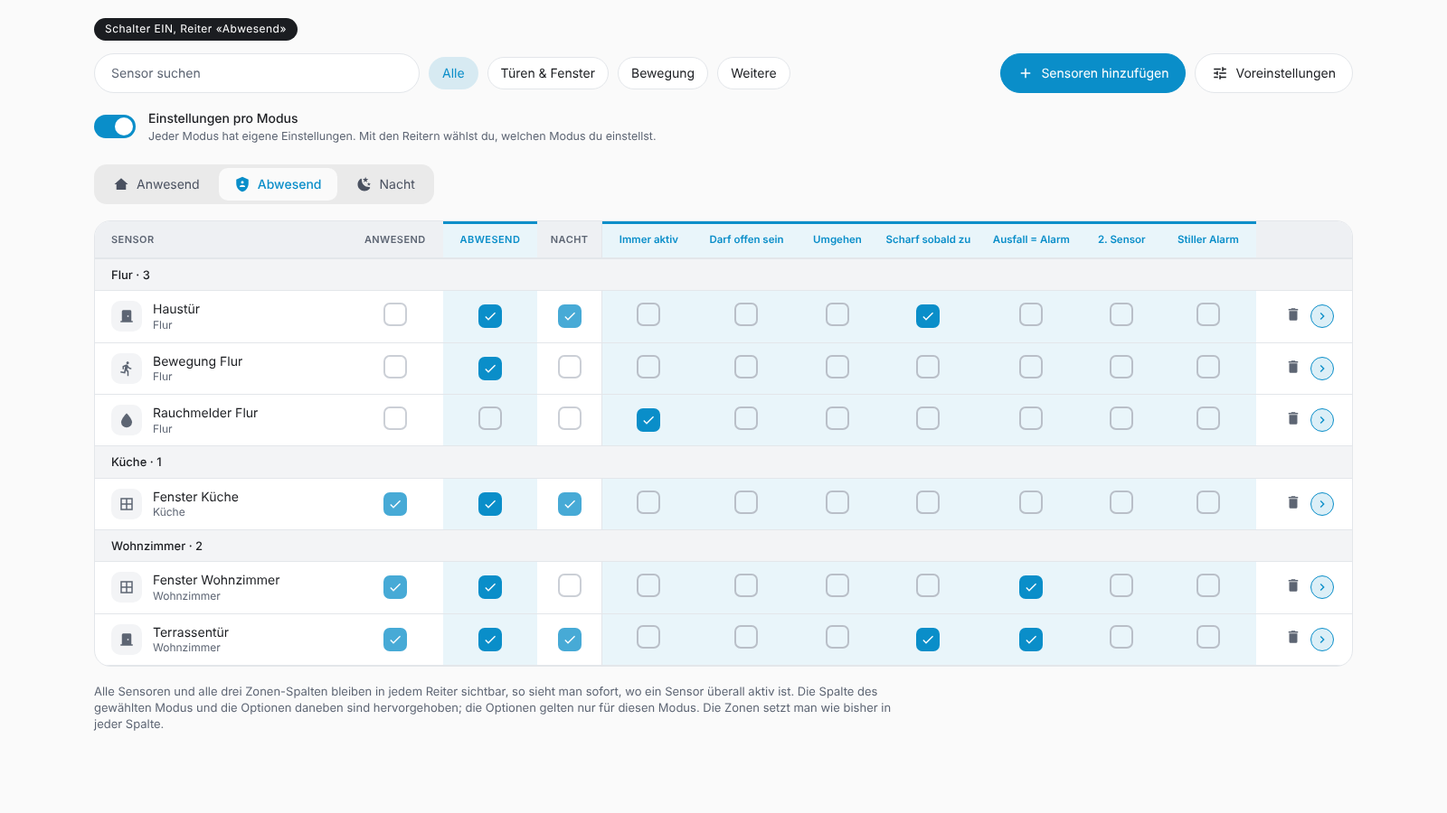
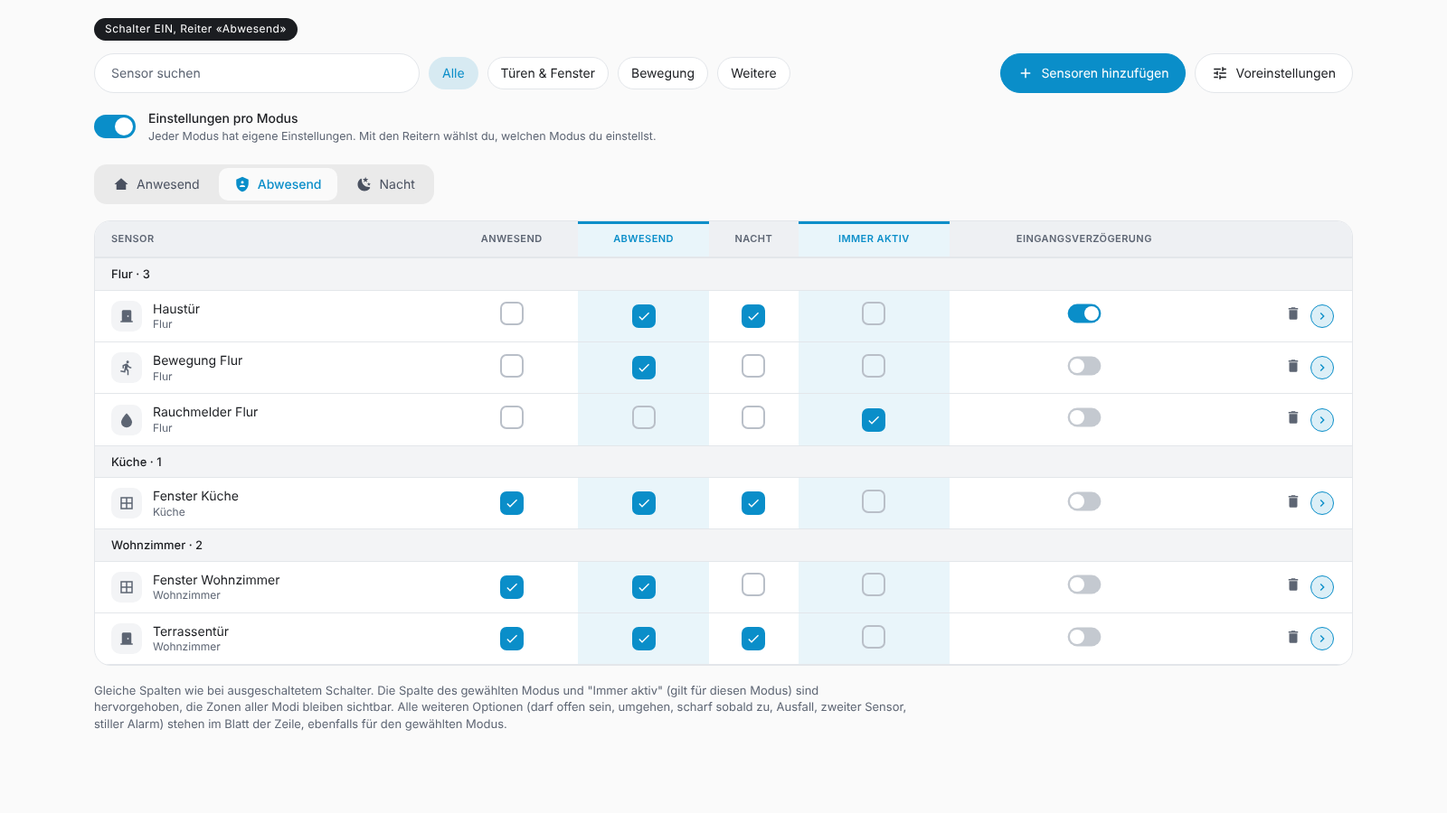
0.33.0: Einstellungen pro Modus vereinfacht (Reiter nur mit Schalter, dieselbe Tabelle)
- Reiter der Modi nur bei eingeschaltetem Schalter, kein "Alle Modi", erster Modus gewählt
- Gleiche Spalten wie vorher, Spalte des gewählten Modus und "Immer aktiv" hervorgehoben, übrige Optionen im Blatt
- Mehr Abstand um den Schalter, Herkunftstexte angepasst
- Mockup, Tests, CHANGELOG EN/DE, README, HANDOVER

Claude-Session: https://claude.ai/code/session_01ALFh3oBmarxTwCL7WBAtR3

diff --git a/custom_components/alarmageddon/panel/sensors.js b/custom_components/alarmageddon/panel/sensors.js
@@ -19,7 +19,7 @@ export class SensorsUi {
     this.paint = null;
     this.skipClick = false;
     this.presetDraft = null;
-    this.mtab = "all"; // Ansicht: "all" (Werte für alle Modi) oder ein Modus mit eigenen Werten (nur mit eingeschaltetem Schalter)
+    this.mtab = "home"; // Ansicht: gewählter Modus (nur mit eingeschaltetem Schalter)
   }
 
   _t(key, vars) {
@@ -107,9 +107,9 @@ export class SensorsUi {
     return n + (s && d && d.entry === s.entry_id && d.perMode !== Boolean(s.per_mode_sensors) ? 1 : 0);
   }
 
-  // Modus der Ansicht: nur mit eingeschaltetem Schalter und gewähltem Reiter (sonst gelten die Werte für alle Modi)
+  // Modus der Ansicht: nur mit eingeschaltetem Schalter (der gewählte Reiter), sonst gelten die Werte für alle Modi
   activeMode() {
-    return this.draft?.perMode && this.mtab !== "all" ? this.mtab : null;
+    return this.draft?.perMode ? this.mtab : null;
   }
 
   preset(id) {
@@ -240,69 +240,23 @@ export class SensorsUi {
       const none = !this.draft.sensors.size;
       this.host._setHtml(body, `<div class="ag-card ag-empty"><span class="ag-t2">${esc(this._t(none ? "noSensorsChosen" : "noSensors"))}</span>${none ? `<button class="ag-btn primary" data-sen="add">${ic("plus", 18)}${esc(this._t("addSensors"))}</button>` : ""}</div>`);
     }
-    else if (mode) this.host._setHtml(body, narrow ? this._modeCards(rows, mode) : this._modeTable(rows, changed, mode));
     else this.host._setHtml(body, narrow ? this._cards(rows) : this._table(rows, changed));
     this.renderSide();
     this.renderFoot();
   }
 
-  // Schalter "Einstellungen pro Modus" und Reiter (Alle Modi, Anwesend, Abwesend, Nacht); die Modus-Reiter sind ohne Schalter gesperrt
+  // Schalter "Einstellungen pro Modus"; nur wenn er an ist, erscheinen die Reiter der Modi (der erste ist gewählt)
   renderModeBar() {
     const h = this.host;
     const bar = h._view?.querySelector(".ag-pmbar");
     const d = this.draft;
     if (!bar || !d) return;
-    if (!d.perMode) this.mtab = "all";
     const modes = this.modes().filter((m) => ALL_MODES.includes(m));
-    if (this.mtab !== "all" && !modes.includes(this.mtab)) this.mtab = "all";
-    let tabs = h._segHtml("sen-mode", [["mt:all", this._t("senModeAll")], ...modes.map((m) => [`mt:${m}`, this._t(MODE_KEY[m]), MODE_ICON[m]])], `mt:${this.mtab}`, "data-sen", "small");
-    if (!d.perMode) tabs = tabs.replace(/<button role="tab" data-sen="mt:(home|away|night)"/g, '<button role="tab" disabled data-sen="mt:$1"');
+    if (d.perMode && !modes.includes(this.mtab)) this.mtab = modes[0] || "home";
+    const tabs = d.perMode ? h._segHtml("sen-mode", modes.map((m) => [`mt:${m}`, this._t(MODE_KEY[m]), MODE_ICON[m]]), `mt:${this.mtab}`, "data-sen", "small") : "";
     h._setHtml(bar, `<div class="ag-pmsw"><button class="ag-toggle ${d.perMode ? "on" : ""}" data-sen="permode" role="switch" aria-checked="${d.perMode}" aria-label="${esc(this._t("senPerMode"))}"></button>
       <div class="ag-settx"><b>${esc(this._t("senPerMode"))}</b><small>${esc(this._t(d.perMode ? "senPerModeOn" : "senPerModeHint"))}</small></div></div>${tabs}`);
     h._placePills();
-  }
-
-  // Tabelle eines Modus: alle Optionen als Kästchen mit dem Wert dieses Modus (eigener Wert als Punkt), Klick setzt einen eigenen Wert
-  _modeTable(rows, changed, mode) {
-    const head = `<tr><th>${esc(this._t("colSensor"))}</th>${OPTIONS.map((o) => `<th class="z ag-optth">${esc(this._t(o.name))}</th>`).join("")}<th></th></tr>`;
-    let area = null;
-    const body = [];
-    for (const r of rows) {
-      if (r.area !== area) {
-        area = r.area;
-        body.push(`<tr class="grp"><td colspan="${OPTIONS.length + 2}">${esc(area)} · ${rows.filter((x) => x.area === area).length}</td></tr>`);
-      }
-      const bits = this._bits(r);
-      body.push(`<tr class="ag-clickrow ${changed.has(r.id) ? "changed" : ""} ${this.detail === r.id ? "sel" : ""}" data-row="${esc(r.id)}"><td><div class="ag-nm">${bits.av}<div>${esc(r.name)}${bits.ownDot}<small>${esc(bits.sub)}</small></div></div></td>
-        ${OPTIONS.map((o) => this._modeBox(r, o, mode)).join("")}
-        <td class="ag-acts"><div class="ag-actrow"><button class="ag-iconbtn" data-sen="remove" data-ent="${esc(r.id)}" aria-label="${esc(`${r.name}: ${this._t("removeSensor")}`)}" title="${esc(this._t("removeSensor"))}">${ic("trash", 18)}</button><button class="ag-cbtn" data-sen="detail" data-ent="${esc(r.id)}" aria-label="${esc(`${r.name}: ${this._t("details")}`)}">${ic("chevRight", 16)}</button></div></td></tr>`);
-    }
-    return `<div class="ag-card ag-table-wrap ag-stickwrap"><table class="ag-table">${head}${body.join("")}</table></div>`;
-  }
-
-  _modeBox(r, o, mode) {
-    const on = this.eff(r.id, o.key, mode);
-    const own = this.own(r.id, o.key, mode);
-    return `<td class="z"><button class="ag-box ${on ? "on" : ""} ${own ? "own" : ""}" data-sen="mopt" data-mode="${mode}" data-key="${o.key}" data-ent="${esc(r.id)}" role="checkbox" aria-checked="${on}" aria-label="${esc(`${r.name}: ${this._t(o.name)}`)}" title="${esc(this._t(own ? "originModeOwn" : "originModeAll", { mode: this._t(MODE_KEY[mode]) }))}">${on ? ic("check", 18) : ""}</button></td>`;
-  }
-
-  _modeCards(rows, mode) {
-    let area = null;
-    const out = [];
-    for (const r of rows) {
-      if (r.area !== area) {
-        area = r.area;
-        out.push(`<div class="ag-group-label">${esc(area)}</div>`);
-      }
-      const bits = this._bits(r);
-      out.push(`<div class="ag-card ag-mcard ag-clickrow" data-row="${esc(r.id)}"><div class="ag-mcard-top">${bits.av}<div style="flex:1;min-width:0">${esc(r.name)}${bits.ownDot}<div class="ag-t2 ag-small">${esc(bits.sub)}</div></div>
-          <button class="ag-cbtn" data-sen="detail" data-ent="${esc(r.id)}" aria-label="${esc(`${r.name}: ${this._t("details")}`)}">${ic("chevRight", 16)}</button></div>
-        <div class="ag-obtns">${OPTIONS.map((o) => {
-          const on = this.eff(r.id, o.key, mode);
-          return `<button class="ag-zbtn ${on ? "on" : ""} ${this.own(r.id, o.key, mode) ? "own" : ""}" data-sen="mopt" data-mode="${mode}" data-key="${o.key}" data-ent="${esc(r.id)}" aria-pressed="${on}">${ic(o.icon, 16)}${esc(this._t(o.name))}</button>`;
-        }).join("")}</div></div>`);
-    }
-    return `<div class="ag-mcards">${out.join("")}</div>`;
   }
 
   _bits(r) {
@@ -324,8 +278,9 @@ export class SensorsUi {
   _table(rows, changed) {
     const d = this.draft;
     const modes = this.modes();
-    const head = `<tr><th>${esc(this._t("colSensor"))}</th>${modes.map((m) => `<th class="z">${esc(this._t(MODE_KEY[m]))}<button class="ag-allbtn" data-sen="all" data-mode="${m}">${esc(this._t("all"))}</button></th>`).join("")}
-      <th class="z">${esc(this._t("optAlways"))}</th><th class="z">${esc(this._t("colEntry"))}</th><th></th></tr>`;
+    const cur = this.activeMode(); // gewählter Modus (nur mit Schalter): seine Spalten sind hervorgehoben
+    const head = `<tr><th>${esc(this._t("colSensor"))}</th>${modes.map((m) => `<th class="z ${m === cur ? "cur" : ""}">${esc(this._t(MODE_KEY[m]))}<button class="ag-allbtn" data-sen="all" data-mode="${m}">${esc(this._t("all"))}</button></th>`).join("")}
+      <th class="z ${cur ? "cur" : ""}">${esc(this._t("optAlways"))}</th><th class="z">${esc(this._t("colEntry"))}</th><th></th></tr>`;
     let area = null;
     const body = [];
     for (const r of rows) {
@@ -337,9 +292,9 @@ export class SensorsUi {
       body.push(`<tr class="ag-clickrow ${changed.has(r.id) ? "changed" : ""} ${this.detail === r.id ? "sel" : ""}" data-row="${esc(r.id)}"><td><div class="ag-nm">${bits.av}<div>${esc(r.name)}${bits.ownDot}<small>${esc(bits.sub)}</small></div></div></td>
         ${modes.map((m) => {
           const on = d.zones[m].has(r.id);
-          return `<td class="z"><button class="ag-box ${on ? "on" : ""}" data-box data-mode="${m}" data-ent="${esc(r.id)}" role="checkbox" aria-checked="${on}" aria-label="${esc(`${r.name}: ${this._t(MODE_KEY[m])}`)}">${on ? ic("check", 18) : ""}</button></td>`;
+          return `<td class="z ${m === cur ? "cur" : ""}"><button class="ag-box ${on ? "on" : ""}" data-box data-mode="${m}" data-ent="${esc(r.id)}" role="checkbox" aria-checked="${on}" aria-label="${esc(`${r.name}: ${this._t(MODE_KEY[m])}`)}">${on ? ic("check", 18) : ""}</button></td>`;
         }).join("")}
-        <td class="z">${this._alwaysBox(r)}</td><td class="z">${this._entryToggle(r)}</td>
+        <td class="z ${cur ? "cur" : ""}">${this._alwaysBox(r)}</td><td class="z">${this._entryToggle(r)}</td>
         <td class="ag-acts"><div class="ag-actrow"><button class="ag-iconbtn" data-sen="remove" data-ent="${esc(r.id)}" aria-label="${esc(`${r.name}: ${this._t("removeSensor")}`)}" title="${esc(this._t("removeSensor"))}">${ic("trash", 18)}</button><button class="ag-cbtn" data-sen="detail" data-ent="${esc(r.id)}" aria-label="${esc(`${r.name}: ${this._t("details")}`)}">${ic("chevRight", 16)}</button></div></td></tr>`);
     }
     return `<div class="ag-card ag-table-wrap ag-stickwrap"><table class="ag-table">${head}${body.join("")}</table></div>`;
@@ -347,8 +302,10 @@ export class SensorsUi {
 
   // "Immer aktiv" (Rauch, Wasser, Gas lösen auch bei deaktivierter Anlage aus) als Kästchen in der Übersicht: wirksamer Wert, eigener Wert ist ein Punkt
   _alwaysBox(r) {
-    const on = this.eff(r.id, "always");
-    return `<button class="ag-box ${on ? "on" : ""}" data-sen="opt" data-key="always" data-ent="${esc(r.id)}" role="checkbox" aria-checked="${on}" aria-label="${esc(`${r.name}: ${this._t("optAlways")}`)}" title="${esc(this._t("optAlwaysHint"))}">${on ? ic("check", 18) : ""}</button>`;
+    const mode = this.activeMode();
+    const on = this.eff(r.id, "always", mode);
+    const own = mode ? this.own(r.id, "always", mode) : false;
+    return `<button class="ag-box ${on ? "on" : ""} ${own ? "own" : ""}" data-sen="${mode ? "mopt" : "opt"}" ${mode ? `data-mode="${mode}"` : ""} data-key="always" data-ent="${esc(r.id)}" role="checkbox" aria-checked="${on}" aria-label="${esc(`${r.name}: ${this._t("optAlways")}`)}" title="${esc(this._t("optAlwaysHint"))}">${on ? ic("check", 18) : ""}</button>`;
   }
 
   _entryToggle(r, extra = "") {
@@ -360,6 +317,7 @@ export class SensorsUi {
   _cards(rows) {
     const d = this.draft;
     const modes = this.modes();
+    const cur = this.activeMode();
     let area = null;
     const out = [];
     for (const r of rows) {
@@ -372,8 +330,8 @@ export class SensorsUi {
           <button class="ag-iconbtn" data-sen="remove" data-ent="${esc(r.id)}" aria-label="${esc(`${r.name}: ${this._t("removeSensor")}`)}" title="${esc(this._t("removeSensor"))}">${ic("trash", 18)}</button><button class="ag-cbtn" data-sen="detail" data-ent="${esc(r.id)}" aria-label="${esc(`${r.name}: ${this._t("details")}`)}">${ic("chevRight", 16)}</button></div>
         <div class="ag-zbtns" style="--n:${modes.length + 1}">${modes.map((m) => {
           const on = d.zones[m].has(r.id);
-          return `<button class="ag-zbtn ${on ? "on" : ""}" data-sen="zone" data-mode="${m}" data-ent="${esc(r.id)}" aria-pressed="${on}">${ic(MODE_ICON[m], 16)}${esc(this._t(MODE_KEY[m]))}</button>`;
-        }).join("")}<button class="ag-zbtn ${this.eff(r.id, "always") ? "on" : ""}" data-sen="opt" data-key="always" data-ent="${esc(r.id)}" aria-pressed="${this.eff(r.id, "always")}">${ic("flash", 16)}${esc(this._t("optAlways"))}</button></div></div>`);
+          return `<button class="ag-zbtn ${on ? "on" : ""} ${m === cur ? "cur" : ""}" data-sen="zone" data-mode="${m}" data-ent="${esc(r.id)}" aria-pressed="${on}">${ic(MODE_ICON[m], 16)}${esc(this._t(MODE_KEY[m]))}</button>`;
+        }).join("")}<button class="ag-zbtn ${this.eff(r.id, "always", cur) ? "on" : ""} ${cur ? "cur" : ""}" data-sen="${cur ? "mopt" : "opt"}" ${cur ? `data-mode="${cur}"` : ""} data-key="always" data-ent="${esc(r.id)}" aria-pressed="${this.eff(r.id, "always", cur)}">${ic("flash", 16)}${esc(this._t("optAlways"))}</button></div></div>`);
     }
     return `<div class="ag-mcards">${out.join("")}</div>`;
   }
@@ -680,7 +638,7 @@ export class SensorsUi {
     } else if (act === "permode") {
       const d = this.ensureDraft();
       d.perMode = !d.perMode;
-      if (!d.perMode) this.mtab = "all";
+      if (d.perMode) this.mtab = this.modes().find((m) => ALL_MODES.includes(m)) || "home"; // der erste Modus ist gewählt
       this.saveState = null;
       this.render();
     } else if (act.startsWith("mt:")) {

diff --git a/custom_components/alarmageddon/panel/strings.js b/custom_components/alarmageddon/panel/strings.js
@@ -583,11 +583,10 @@ export const STRINGS = {
     optBypassShort: "bypassed",
     senPerMode: "Settings per mode",
     senPerModeHint: "Off: the settings of a sensor apply to all modes. On: every mode can have its own settings, with the tabs below.",
-    senPerModeOn: "Every mode can have its own settings. Without an own value the value of \"All modes\" applies.",
-    senModeAll: "All modes",
+    senPerModeOn: "Every mode has its own settings. Choose the mode with the tabs; the zones of all modes stay visible.",
     originModeOwn: "Own value for {mode}",
-    originModeAll: "Same as in All modes",
-    resetToAll: "back to All modes",
+    originModeAll: "Basic value (as before switching on)",
+    resetToAll: "back to the basic value",
     optReport: "Silent alarm",
     optReportHint: "If this sensor responds while armed, a message (kind \"Silent alarm\") is sent instead of the alarm. For sensors that often respond without a break-in.",
     optReportShort: "silent alarm",
@@ -1195,11 +1194,10 @@ export const STRINGS = {
     optBypassShort: "umgangen",
     senPerMode: "Einstellungen pro Modus",
     senPerModeHint: "Aus: Die Einstellungen eines Sensors gelten für alle Modi. Ein: Jeder Modus kann eigene Einstellungen haben, mit den Reitern darunter.",
-    senPerModeOn: "Jeder Modus kann eigene Einstellungen haben. Ohne eigenen Wert gilt der Wert von \"Alle Modi\".",
-    senModeAll: "Alle Modi",
+    senPerModeOn: "Jeder Modus hat eigene Einstellungen. Wähle den Modus mit den Reitern; die Zonen aller Modi bleiben sichtbar.",
     originModeOwn: "Eigener Wert für {mode}",
-    originModeAll: "Wie bei Alle Modi",
-    resetToAll: "zurück zu Alle Modi",
+    originModeAll: "Grundwert (wie vor dem Einschalten)",
+    resetToAll: "zurück zum Grundwert",
     optReport: "Stiller Alarm",
     optReportHint: "Spricht dieser Sensor im scharfen Zustand an, kommt eine Meldung (Art \"Stiller Alarm\") statt eines Alarms. Für Sensoren, die oft ohne Einbruch ansprechen.",
     optReportShort: "stiller Alarm",

diff --git a/custom_components/alarmageddon/panel/styles.js b/custom_components/alarmageddon/panel/styles.js
@@ -250,13 +250,14 @@ dialog.ag-dlg[open] > .ag-dlg-body { overflow: auto; min-height: 0; overscroll-b
 .ag-otx b { font-weight: 500; display: block; }
 .ag-otx small { display: block; color: var(--ag-text2); font-size: 12.5px; margin-top: 2px; line-height: 1.35; }
 /* Einstellungen pro Modus: Schalter mit Text, daneben die Reiter; Punkt am Kästchen = eigener Wert dieses Modus */
-.ag-pmbar { display: flex; align-items: center; gap: 12px 22px; flex-wrap: wrap; margin: 0 0 14px; }
+.ag-pmbar { display: flex; align-items: center; gap: 16px 24px; flex-wrap: wrap; margin: 22px 0 22px; }
 .ag-pmsw { display: flex; align-items: center; gap: 12px; }
 .ag-pmsw .ag-toggle { margin: 0; flex: none; }
 .ag-box.own { position: relative; }
 .ag-box.own::after { content: ""; position: absolute; top: -3px; right: -3px; width: 9px; height: 9px; border-radius: 50%; background: var(--ag-warning); border: 2px solid var(--ag-card); }
-.ag-optth { white-space: normal; max-width: 92px; line-height: 1.2; font-size: 11px; }
-.ag-obtns { display: grid; grid-template-columns: repeat(2, 1fr); gap: 6px; margin-top: 10px; }
+th.cur, td.cur { background: color-mix(in srgb, var(--ag-primary) 9%, transparent); }
+th.cur { box-shadow: inset 0 3px 0 var(--ag-primary); }
+.ag-zbtn.cur { box-shadow: 0 0 0 2px var(--ag-primary); }
 .ag-block { display: block; margin-top: 2px; font-size: 12px; }
 .ag-origin { display: inline-flex; gap: 4px; align-items: center; margin-top: 4px; font-size: 11.5px; color: var(--ag-text2); border: 0; background: transparent; padding: 0; font-family: inherit; }
 .ag-origin.own { color: var(--ag-primary); font-weight: 500; cursor: pointer; }

diff --git a/custom_components/alarmageddon/const.py b/custom_components/alarmageddon/const.py
@@ -58,7 +58,7 @@ CODE_LOCKOUT_SECONDS: Final = 60
 MANUFACTURER: Final = "Alarmageddon"
 
 # Panel (eingebautes iframe-Panel, siehe LEARNINGS)
-PANEL_VERSION: Final = 38  # Cache-Buster: bei jeder Änderung unter panel/ erhöhen
+PANEL_VERSION: Final = 39  # Cache-Buster: bei jeder Änderung unter panel/ erhöhen
 PANEL_URL_PATH: Final = "alarmageddon"
 PANEL_STATIC_URL_PATH: Final = "/alarmageddon_panel"
 PANEL_DIR: Final = "panel"

diff --git a/docs/HANDOVER.md b/docs/HANDOVER.md
@@ -13,6 +13,7 @@ Einstieg für jede neue Claude-Code-Session. Zuerst diese Datei lesen, dann
 - `save_presets` nimmt `reset_sensors` (Sensorarten): löscht `sensor_options` der betroffenen Sensoren in allen Anlagen, Antwort `reset`. Panel: Schalter "Auf alle Sensoren anwenden" im Dialog.
 - Aktionsdialoge in Kapiteln (`_sec`, `.ag-sec-t`); "Rückgängig beim Deaktivieren/Quittieren" (`fldRestore`) mit Hinweis; Alarmton: neuer Schritt mit `detach: true`.
 - Scrollposition: `_keepScroll(fn)` in `alarmageddon-panel.js` merkt `scrollTop` von `.ag-content` und stellt ihn nach `_setHtml` und den Gerüstwechseln wieder her (nur innerhalb derselben Ansicht, Schlüssel Reiter|Unterreiter|Anlage); Dialoge merken die Position beim `showModal` und stellen sie beim `close` her (der Browser scrollt sonst zum Auslöser). Ursache auf dem Handy nicht im Browser nachgestellt (Test mit Programmklick besteht auch ohne Korrektur): bei erneutem Auftreten mit echtem Gerät prüfen.
+- 0.33.0: Einstellungen pro Modus vereinfacht (Mockup `docs/mockups/modus-einstellungen-v1`): Reiter nur bei eingeschaltetem Schalter, kein "Alle Modi" (`mtab` = gewählter Modus, `activeMode()` = `perMode ? mtab : null`), `_table`/`_cards` bleiben dieselben, Hervorhebung `.cur`, "Immer aktiv" je Modus über `mopt`; `_modeTable`/`_modeCards` entfallen. Datenmodell unverändert (Überschreibungen über dem Grundwert).
 - 0.32.0: Sensor-Optionen je Modus: Optionen `per_mode_sensors` (Schalter) und `sensor_modes[modus][sensor][option]` (nur Abweichungen); `AlarmController.option(entity, key, mode)` (Modus vor Sensor vor Voreinstellung; ohne Modus oder bei ausgeschaltetem Schalter die Werte für alle Modi), Aufrufer in `_on_sensor`, `_confirmed`, `_on_arming_change` und `async_arm` übergeben `self.mode`/`mode`. Neue Option `bypass` ersetzt die globale Wahl `open_sensors`; `__init__._migrate_open_sensors` überträgt alte Werte einmal beim Laden (vor dem Update-Listener). Panel `sensors.js`: `draft.perMode`/`draft.modeOpts`, `mtab` (Ansicht), `renderModeBar`, `_modeTable`/`_modeCards`, Blatt je Modus mit Herkunft. `save_presets` mit `reset_sensors` löscht auch die Werte je Modus. Tests: `test_sensor_options.py` (Umgehen, je Modus, Migration), layout-e2e.
 - 0.31.0: `notify["types"][art]["persistent"]` (auch in `modes`): `notify.async_persist` legt `persistent_notification` mit der Kennung des tag an (Wartung: `alarmageddon_maintenance_<art>`; ein Ausfall des Handys zählt dann trotzdem als gemeldet). Scroll: `togglePick` zeichnet nichts neu, `_setHtml` für Fenster erhält die Scrollposition von Inhalt und Listen. Feste Teile: Abstand als Innenabstand (`.ag-stk:not(.ag-stk-last)`), kein Schatten mehr, `--ag-th-top` = Höhe aller festen Teile. "Nur melden" heisst "Stiller Alarm".
 - Offen (Entscheid des Nutzers, noch nicht gebaut): globale Wahl "Offener Sensor beim Scharfschalten" entfällt; je Sensor und je Modus einstellbar mit Unterreitern Global/Anwesend/Abwesend/Nacht und Schalter "pro Modus", auch in der Sensorübersicht.

diff --git a/CHANGELOG.de.md b/CHANGELOG.de.md
@@ -7,6 +7,15 @@ Alle nennenswerten Änderungen an dieser Integration stehen in dieser Datei.
 Das Format folgt [Keep a Changelog](https://keepachangelog.com/de/1.1.0/),
 die Versionsnummern folgen [Semantic Versioning](https://semver.org/lang/de/).
 
+## [0.33.0] - 2026-11-09
+
+Einstellungen pro Modus vereinfacht: dieselbe Tabelle, mit den Einstellungen des gewählten Modus.
+
+### Geändert
+
+- **Einstellungen pro Modus funktionieren anders** (Konfiguration › Sensoren): Die Reiter der Modi erscheinen nur, wenn der Schalter "Einstellungen pro Modus" an ist; es gibt keinen Reiter "Alle Modi" mehr, und der erste Modus ist gewählt. Mit eingeschaltetem Schalter hat die Tabelle die **gleichen Spalten wie vorher** (Zonen aller Modi, "Immer aktiv", Eingangsverzögerung), so siehst du immer, in welchen Modi ein Sensor aktiv ist. Die Spalte des gewählten Modus und "Immer aktiv" (gilt dann für diesen Modus) sind hervorgehoben. Alle anderen Sensor-Optionen (darf offen sein, umgehen, scharf sobald geschlossen, Ausfall gilt als Alarm, braucht zweiten Sensor, stiller Alarm) stellst du im Blatt des Sensors ein, für den gewählten Modus. Mit ausgeschaltetem Schalter ist alles wie vor 0.32.0. Am Handy zeigen die Zonen-Knöpfe der Karten den gewählten Modus mit einem Rahmen. Mehr Abstand um den Schalter.
+- **Der Herkunftstext** einer Option in einem Modus heisst "Grundwert (wie vor dem Einschalten)" und "Eigener Wert für {Modus}" mit "zurück zum Grundwert".
+
 ## [0.32.0] - 2026-11-09
 
 Sensor-Einstellungen pro Modus, und "Umgehen" ist jetzt eine Einstellung pro Sensor.
@@ -485,6 +494,7 @@ Erste Vorabversion: der Kern der Alarmanlage mit Unterstützung für Apple HomeK
 - **Neustart:** Zustand, Verzögerungen und Alarm laufen nach einem Neustart oder beim Ändern der Optionen weiter. Eine Eingangsverzögerung, die während des Neustarts abgelaufen ist, wird zum Alarm. Ein Sensor, der aus "nicht verfügbar" als offen zurückkommt, löst nicht aus.
 - **Sprachen:** Englisch und Deutsch.
 
+[0.33.0]: https://github.com/Diegofuego871/ha-Alarmageddon/releases/tag/v0.33.0
 [0.32.0]: https://github.com/Diegofuego871/ha-Alarmageddon/releases/tag/v0.32.0
 [0.30.0]: https://github.com/Diegofuego871/ha-Alarmageddon/releases/tag/v0.30.0
 [0.29.0]: https://github.com/Diegofuego871/ha-Alarmageddon/releases/tag/v0.29.0

diff --git a/README.de.md b/README.de.md
@@ -19,7 +19,7 @@ Alarmanlage für Home Assistant mit geführter Einrichtung und eingebauter Wartu
 
 - **Seitenpanel, Übersicht:** Steuerung aller Alarmanlagen mit "Bereit für" je Modus, eine Kachel mit dem Status (alles in Ordnung oder Warnungen) und eine Liste aller Sensoren mit Suche, Filtern und Ansichtseinstellung (Spalten, Gruppierung, Sortierung). Sie zeigt Zustand, Batterie, Empfang, Firmware, Modell und letzte Änderung, als Liste (Standard) oder als Karten (Umschalter neben "Ansicht"); ein Klick auf einen Spaltenkopf sortiert, "Offen" und "Belegung" sind getrennte Filter. Die Spalten werden wie in Device Panel für Computer und Handy getrennt gewählt und pro Benutzer gespeichert.
 - **Seitenpanel, Konfiguration:** Sensoren (Zonen als Raster mit Ziehen über Felder, Optionen pro Sensor im Seitenblatt, Voreinstellungen je Sensorart) und Anlage (Modi, Verzögerungen, Verhalten bei offenen Sensoren, Zeitplan, Codes, Sicherung). Auf dem Handy als Karten und Blätter von unten.
-- **Optionen pro Sensor:** immer aktiv (Rauch, Wasser), darf beim Scharfschalten offen sein, beim Scharfschalten umgehen, scharf sobald geschlossen, Ausfall gilt als Alarm, braucht einen zweiten Sensor, stiller Alarm. Voreinstellungen je Sensorart, eigene Werte pro Sensor. Auf Wunsch eigene Werte je Modus (Schalter "Einstellungen pro Modus" in Konfiguration › Sensoren).
+- **Optionen pro Sensor:** immer aktiv (Rauch, Wasser), darf beim Scharfschalten offen sein, beim Scharfschalten umgehen, scharf sobald geschlossen, Ausfall gilt als Alarm, braucht einen zweiten Sensor, stiller Alarm. Voreinstellungen je Sensorart, eigene Werte pro Sensor. Auf Wunsch eigene Werte je Modus (Schalter "Einstellungen pro Modus" in Konfiguration › Sensoren: Reiter je Modus, dieselbe Tabelle, die übrigen Optionen im Blatt).
 - **Bereit zum Scharfschalten:** eine Entität pro Modus mit den verhindernden Sensoren.
 - **Protokoll und Alarm-Aufzeichnung:** jeder Alarm als grafische Zeitachse (welcher Sensor wann angesprochen hat, bis zum Quittieren) und alle Ereignisse in einem eigenen Reiter.
 - **Alarmaktionen:** ein grafischer Ablauf pro Alarm: Push-Meldung, Geräte schalten, Rollläden, Alarmton auf Medienplayern (Sonos und andere), Warten, Skript, jede Aktion. Geräte kehren nach dem Alarm in den Zustand davor zurück.

diff --git a/CHANGELOG.md b/CHANGELOG.md
@@ -7,6 +7,15 @@ All notable changes to this integration are documented in this file.
 The format is based on [Keep a Changelog](https://keepachangelog.com/en/1.1.0/),
 and this project adheres to [Semantic Versioning](https://semver.org/).
 
+## [0.33.0] - 2026-11-09
+
+Settings per mode, simplified: the same table, with the settings of the chosen mode.
+
+### Changed
+
+- **Settings per mode work differently** (Configuration › Sensors): the tabs of the modes only appear when the switch "Settings per mode" is on; there is no tab "All modes" any more, and the first mode is chosen. With the switch on, the table has the **same columns as before** (zones of all modes, "Always active", entry delay), so you always see in which modes a sensor is active. The column of the chosen mode and "Always active" (which then applies to this mode) are highlighted. All other sensor options (may be open, bypass, arm as soon as closed, failure counts as alarm, needs a second sensor, silent alarm) are set in the sheet of the sensor, for the chosen mode. With the switch off everything is as before 0.32.0. On the phone the zone buttons of the cards show the chosen mode with a frame. More space around the switch.
+- **The origin text** of an option in a mode reads "Basic value (as before switching on)" and "Own value for {mode}" with "back to the basic value".
+
 ## [0.32.0] - 2026-11-09
 
 Sensor settings per mode, and "Bypass" is now a setting per sensor.
@@ -485,6 +494,7 @@ First pre-release: the alarm core with Apple HomeKit support. The graphical setu
 - **Restart:** state, delays and alarm continue after a restart or when the options change. An entry delay that ran out during the restart becomes an alarm. A sensor that comes back from "unavailable" as open does not trigger.
 - **Languages:** English and German.
 
+[0.33.0]: https://github.com/Diegofuego871/ha-Alarmageddon/releases/tag/v0.33.0
 [0.32.0]: https://github.com/Diegofuego871/ha-Alarmageddon/releases/tag/v0.32.0
 [0.30.0]: https://github.com/Diegofuego871/ha-Alarmageddon/releases/tag/v0.30.0
 [0.29.0]: https://github.com/Diegofuego871/ha-Alarmageddon/releases/tag/v0.29.0

diff --git a/README.md b/README.md
@@ -19,7 +19,7 @@ Alarm system for Home Assistant with a guided setup and built-in sensor maintena
 
 - **Side panel, overview:** control of all alarm systems with "Ready for" per mode, a status tile (all good or warnings) and a list of all sensors with search, filters and view settings (columns, grouping, sorting). It shows state, battery, signal, firmware, model and last change, as a list (default) or as cards (switch next to "View"); a click on a column header sorts, and "Open" and "Occupancy" are separate filters. Columns are chosen separately for the computer and the phone, as in Device Panel, and stored per user.
 - **Side panel, configuration:** sensors (zones as a grid with drag across boxes, options per sensor in a side sheet, defaults per sensor type) and alarm system (modes, delays, behaviour for open sensors, schedule, codes, backup). On the phone as cards and sheets from the bottom.
-- **Options per sensor:** always active (smoke, water), may be open when arming, bypass when arming, arm as soon as closed, failure counts as alarm, needs a second sensor, silent alarm. Defaults per sensor type, own values per sensor, and on request own values per mode (switch "Settings per mode" in Configuration › Sensors).
+- **Options per sensor:** always active (smoke, water), may be open when arming, bypass when arming, arm as soon as closed, failure counts as alarm, needs a second sensor, silent alarm. Defaults per sensor type, own values per sensor, and on request own values per mode (switch "Settings per mode" in Configuration › Sensors: tabs per mode, same table, the other options in the sheet).
 - **Ready to arm:** one entity per mode with the blocking sensors.
 - **Log and alarm recording:** every alarm as a graphical timeline (which sensor responded when, until acknowledged) and all events in their own tab.
 - **Alarm actions:** a graphical workflow per alarm: push notification, switch devices, covers, alarm sound on media players (Sonos and others), wait, script, any action. Devices return to their previous state after the alarm.
